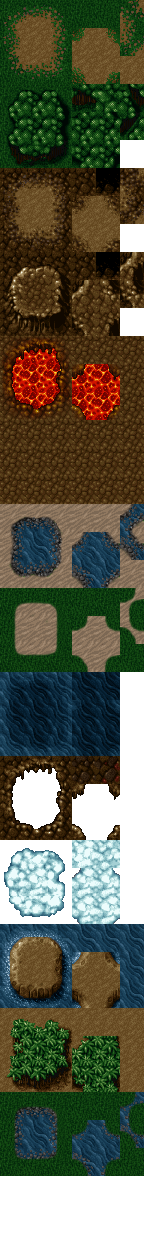
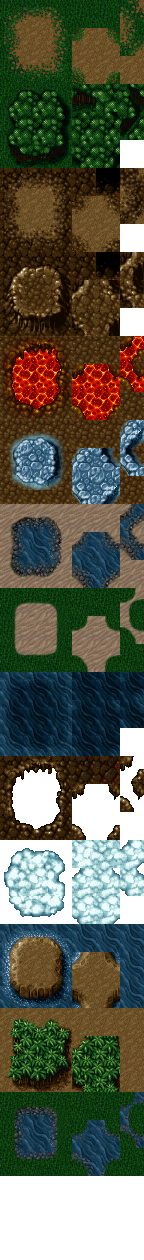
Snow tiles and missing diagonals implemented along with some minor code fixes in tiles.py

Changed region(s): [[0.5, 0.2476, 1.0, 0.4024], [0.8333, 0.5262, 1.0, 0.7119], [0.0556, 0.3405, 0.4444, 0.4024]]

diff --git a/tiles.py b/tiles.py
@@ -40,20 +40,19 @@ class Tiles(pygame.rect.Rect):
 				tilecode = tilecode.replace("7", "1")
 				tset = 3
 		
-		# Set 3: MOUNTIAN-LAVA
+		# Set 4: MOUNTIAN-LAVA
 		if "7" in tilecode:
 			if "9" in tilecode:
 				tilecode = tilecode.replace("7", "0")
 				tilecode = tilecode.replace("9", "1")
 				tset = 4
 				
-		# Set 3: MOUNTIAN-ICE
+		# Set 5: MOUNTIAN-ICE
 		if "7" in tilecode:
 			if "8" in tilecode:
 				tilecode = tilecode.replace("7", "0")
 				tilecode = tilecode.replace("8", "1")
-				tset = 4
-		
+				tset = 5
 		
 		# sets with water
 		if "4" in tilecode:
@@ -72,6 +71,13 @@ class Tiles(pygame.rect.Rect):
 				tilecode = tilecode.replace("1", "D") # dirt fix
 				tilecode = tilecode.replace("3", "1")
 				tset = 7
+		
+		# Set 9: HILL-GAP
+		if "5" in tilecode:
+			if "6" in tilecode:
+				tilecode = tilecode.replace("5", "0")
+				tilecode = tilecode.replace("6", "1")
+				tset = 9
 				
 		# Pure tile fix: alternatively I could hardcode them into self.tiles
 		#  or figure out my logic better so these resolve in set translation
@@ -84,13 +90,16 @@ class Tiles(pygame.rect.Rect):
 		if tilecode == "5555":
 			tilecode = "0000" # this covers pure hill
 			tset = 2
+		if tilecode == "6666":
+			tilecode = "1111" # this covers pure hill
+			tset = 9
 		if tilecode == "7777" in tilecode: # covers pure deepwater
 			tilecode = "1111"
 			tset = 3
-		if tilecode == "8888" in tilecode: # covers pure deepwater
+		if tilecode == "8888" in tilecode: # covers pure snow
 			tilecode = "1111"
-			tset = 4
-		if tilecode == "9999" in tilecode: # covers pure deepwater
+			tset = 5
+		if tilecode == "9999" in tilecode: # covers pure lava
 			tilecode = "1111"
 			tset = 4
 		if tilecode == "AAAA" in tilecode: # covers pure deepwater
